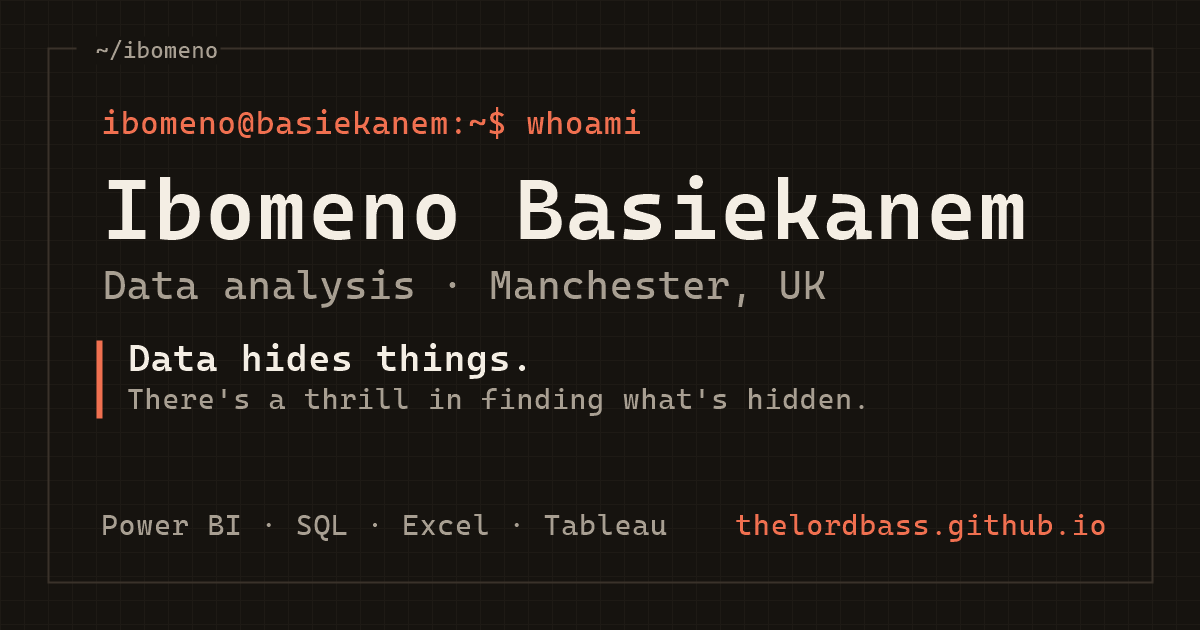
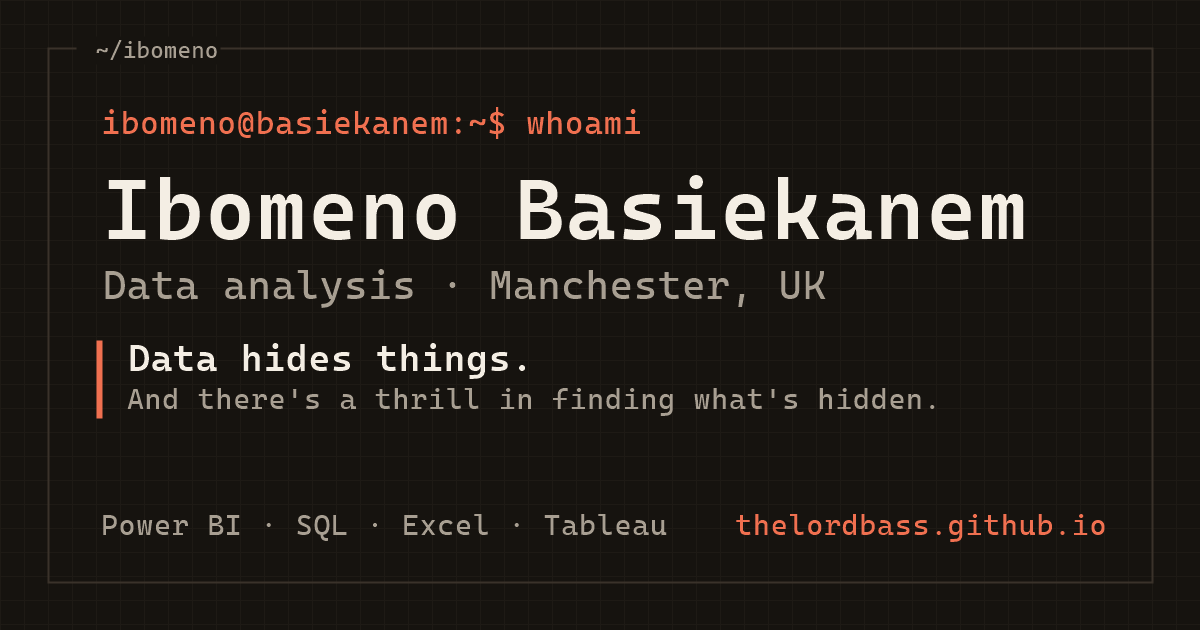
Hero second line: 'And there's a thrill in finding what's hidden.'
Preview image and alt text match; image URL bumped to ?v=3 so LinkedIn refetches it.

Changed region(s): [[0.4317, 0.6032, 0.7708, 0.6635], [0.0925, 0.6032, 0.3392, 0.6635], [0.37, 0.6032, 0.4008, 0.6635]]

diff --git a/index.html b/index.html
@@ -17,12 +17,12 @@
     <meta property="og:locale" content="en_GB">
     <!-- Bump ?v= whenever og-image.png changes: LinkedIn caches the image by
          its URL and ignores a new file at the same address. -->
-    <meta property="og:image" content="https://thelordbass.github.io/assets/og-image.png?v=2">
+    <meta property="og:image" content="https://thelordbass.github.io/assets/og-image.png?v=3">
     <meta property="og:image:width" content="1200">
     <meta property="og:image:height" content="630">
-    <meta property="og:image:alt" content="Ibomeno Basiekanem, data analysis in Manchester. Data hides things. There's a thrill in finding what's hidden.">
+    <meta property="og:image:alt" content="Ibomeno Basiekanem, data analysis in Manchester. Data hides things. And there's a thrill in finding what's hidden.">
     <meta name="twitter:card" content="summary_large_image">
-    <meta name="twitter:image" content="https://thelordbass.github.io/assets/og-image.png?v=2">
+    <meta name="twitter:image" content="https://thelordbass.github.io/assets/og-image.png?v=3">
 
     <meta name="theme-color" content="#16130f" media="(prefers-color-scheme: dark)">
     <meta name="theme-color" content="#faf7f0" media="(prefers-color-scheme: light)">
@@ -105,7 +105,7 @@
 
             <h1 class="hero-title">
                 Data hides things.
-                <span class="hero-sub">There's a thrill in finding what's hidden.</span>
+                <span class="hero-sub">And there's a thrill in finding what's hidden.</span>
             </h1>
 
             <p class="hero-lede">
